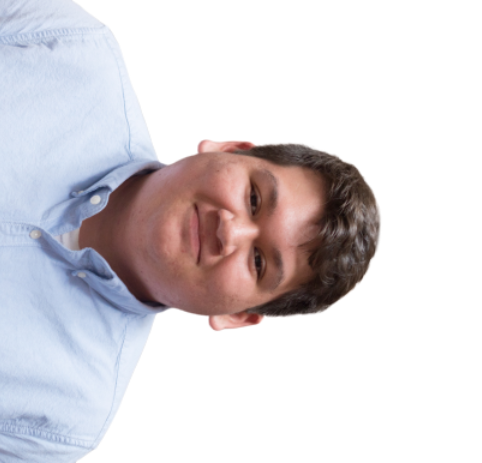
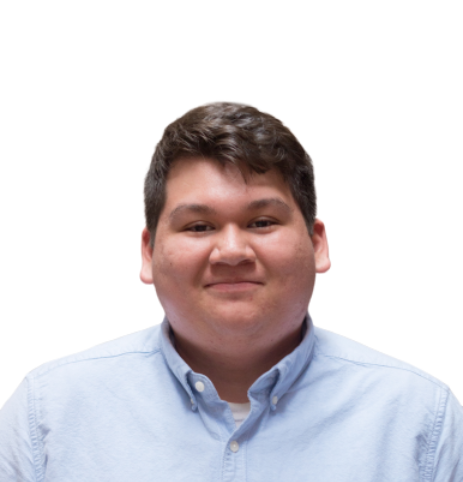
Day 2 Portfolio

diff --git a/index.html b/index.html
@@ -5,6 +5,8 @@
     <meta name="viewport" content="width=device-width, initial-scale=1.0">
     <meta http-equiv="X-UA-Compatible" content="ie=edge">
     <link rel="stylesheet" href="css/bootstrap.css">
+    <link href="https://fonts.googleapis.com/css?family=Roboto&display=swap" rel="stylesheet">
+    <link href="https://fonts.googleapis.com/css?family=Acme|Alfa+Slab+One|Patua+One&display=swap" rel="stylesheet">
     <link rel="stylesheet" href="css/style.css">
     <title>Portfolio</title>
 </head>
@@ -13,15 +15,16 @@
         <div class="top-bar">
             <div class="container">
                 <div class="row">
-                    <div class="col-sm-6">
-                        <h1>Personal Portfolio</h1>
+                    <div class="logo col-sm-3">
+                        <h1>MVIII</h1>
+                        <h3>Junior Developer</h3>
                     </div>
-                    <div class="col-sm-6">
+                    <div class="col-sm-9">
                         <nav>
                             <ul>
-                                <li>About me</li>
-                                <li>Projects</li>
-                                <li>Contact Info</li>
+                                <li><a href="#">About me</a></li>
+                                <li><a href="#">Projects</a></li>
+                                <li><a href="#">Contact Info</a></li>
                             </ul>
                         </nav>
                     </div>
@@ -34,13 +37,13 @@
             <div class="container">
                 <div class="row">
                     <div class="hero_info col-sm-5">
-                        <img src="media/Mask Group 1.png" alt="">
+                        <img class="img-responsive" src="media/Mask Group 1.png" alt="">
                     </div>
                     <div class="hero_text col-sm-7">
                         <h1>Margarito Valencia III</h1>
                         <h2>Junior Developer | Mississippi Coding Academy</h2>
                         <ul>
-                            <li><img src="../project_portfolio/media/facebook-f-brands.svg" alt=""></li>
+                            <li><img src="media/facebook-f-brands.svg" alt=""></li>
                             <li><img src="media/twitter-brands.svg" alt=""></li>
                             <li><img src="media/github-brands.svg" alt=""></li>
                             <li><img src="media/linkedin-brands.svg" alt=""></li>
@@ -49,9 +52,14 @@
                 </div>    <!--  End of Hero Row -->
             </div>
         </div> <!-- End of Hero class-->
-        <div class="container">
-            <div class="row">
-                <div class="col-sm-6"></div>
+        <div class="about">
+            <div class="container">
+                <div class="row">
+                    <div class="description col-sm-6">
+                        <h2>About Me</h2>
+                        <p>I a recent high school graduate from Brandon High school ,and now I am going to the Mississippi Coding Academy. I am working efficiently and effectively to become a Junior Developer.  My hobbies are playing DnD with my friends, play video games, and watch anime. </p>
+                    </div>
+                </div>
             </div>
         </div>
     </main>

diff --git a/css/style.css b/css/style.css
@@ -1,10 +1,14 @@
 .top-bar {
     background-color: #FFFFFF;
-    position: sticky;
-    top: 0;
+    position: fixed;
+    width: 100%;
     z-index: 10;
     padding: 20px 0px;
     
+}
+
+.top-bar h1 {
+    color: #7DD1F4;
 }
 
 .top-bar ul {
@@ -12,36 +16,128 @@
     text-align: right;
     padding: 0;
     margin: 0;
+    margin-top: 25px;
 }
 
 .top-bar li {
+    color: black;
+    font-family: 'Roboto', sans-serif;
     display: inline;
     font-size: 25px;
-    padding-left: 10px;
+    padding-left: 20px;
+}
+
+@media (max-width: 768px) {
+    .top-bar {
+        padding: 10px;
+        margin: 0;
+    }
+    .top-bar ul {
+        text-align: center;
+        margin: 0;
+        padding: 10px 0px;
+    }
+}
+
+.top-bar a {
+    text-decoration: none;
+    color: rgb(109, 109, 109)
+}
+
+.top-bar a:hover {
+    color: #7DD1F4;
+
+}
+
+.logo {
+    padding: 10px 15px;
+    border: solid 4px rgb(66, 66, 66);
+    outline: 2px solid rgb(109, 109, 109);
+    outline-offset: 4px;
+}
+
+.logo h1 {
+    font-family: 'Acme', sans-serif;
+    font-size: 40px;
+    margin: 0;
+    text-align: center;
+}
+
+.logo h3 {
+    font-family: 'Roboto', sans-serif;
+    font-size: 15px;
+    margin: 0;
+    text-align: center;
 }
 
 .hero {
+    color: #fff;
+    padding: 290px 0;
+    position: relative;
     background: url(../media/portfolio\ background.png) no-repeat 50%;
     background-size: cover;
     background-attachment: fixed;
-    padding: 210px 0;
-    color: #fff;
-    position: relative;
+    z-index: 1;
+}
+
+@media (max-width: 768px) {
+    
 }
 
 .hero_info img {
     position: absolute;
-    top: 0px;left: 0;
-    transform: rotate(270deg);
+    top: 200px;left: 0;
+    animation-name: sliding_myself;
+    animation-duration: 5s;
+    animation-delay: 2s;
+    animation-timing-function: cubic-bezier(10s, 4s, 10s, 2s);
+    z-index: 1;
+}
+
+@keyframes sliding_myself {
+    0% {
+        transform: translateY(0)
+    }
+    25% {
+        transform: translateY(350px)
+    }
+    50% {
+        transform: translateY(-140px)       
+    }
+    75%{
+        transform: translateY(-140px)
+    }
+    100% {
+        transform: translateY(0px)
+    }
+
 }
 
 .hero_text h1,h2 {
     text-align: center;
 }
 
+.hero_text ul {
+    list-style: none;
+    text-align: center;
+}
+
+.hero_text li {
+    display: inline;
+}
+
 .hero li img {
     width: 32px;
     height: 32px;
+}
+
+.about {
+    background-color: rgb(219, 217, 217);
+    z-index: 4;
+}
+
+.description {
+    z-index: 3;
 }
 
 
